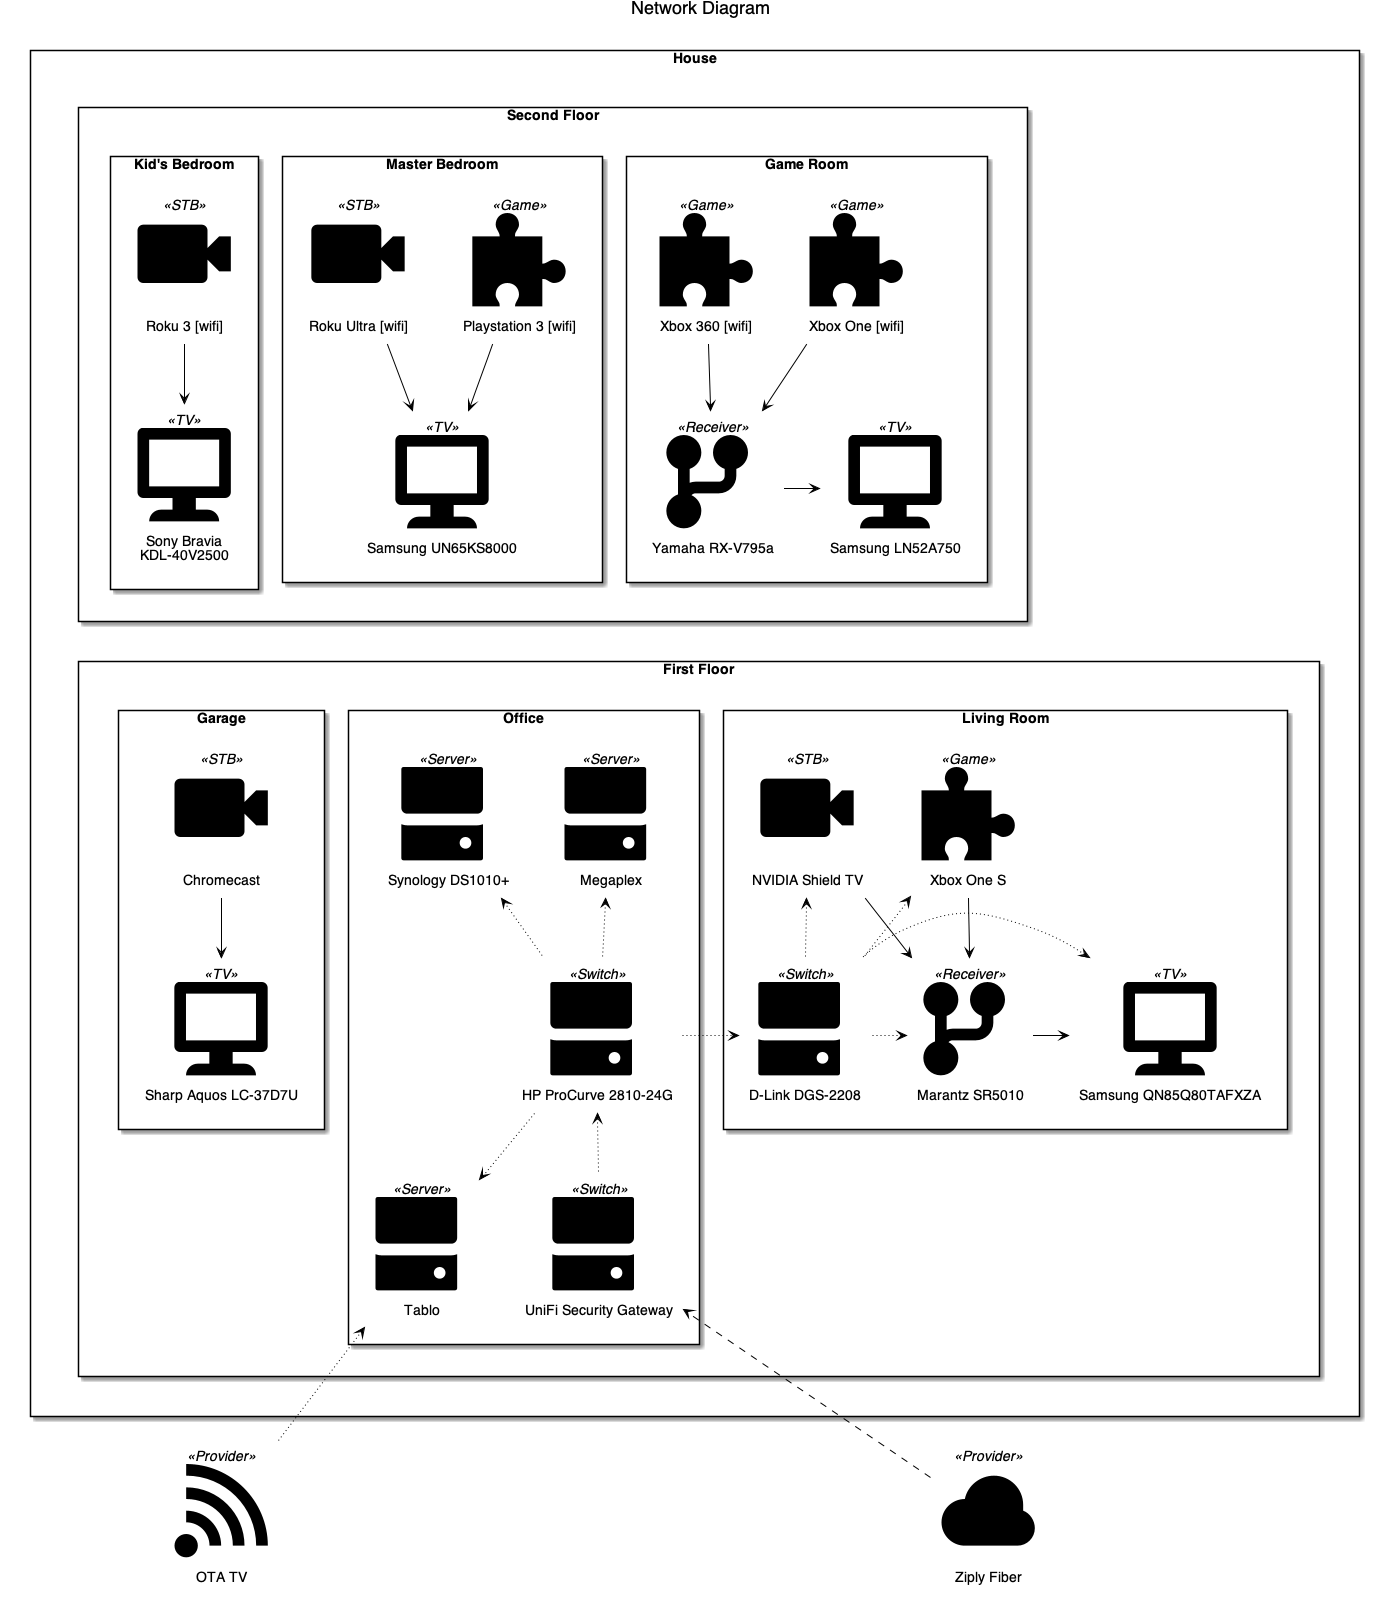
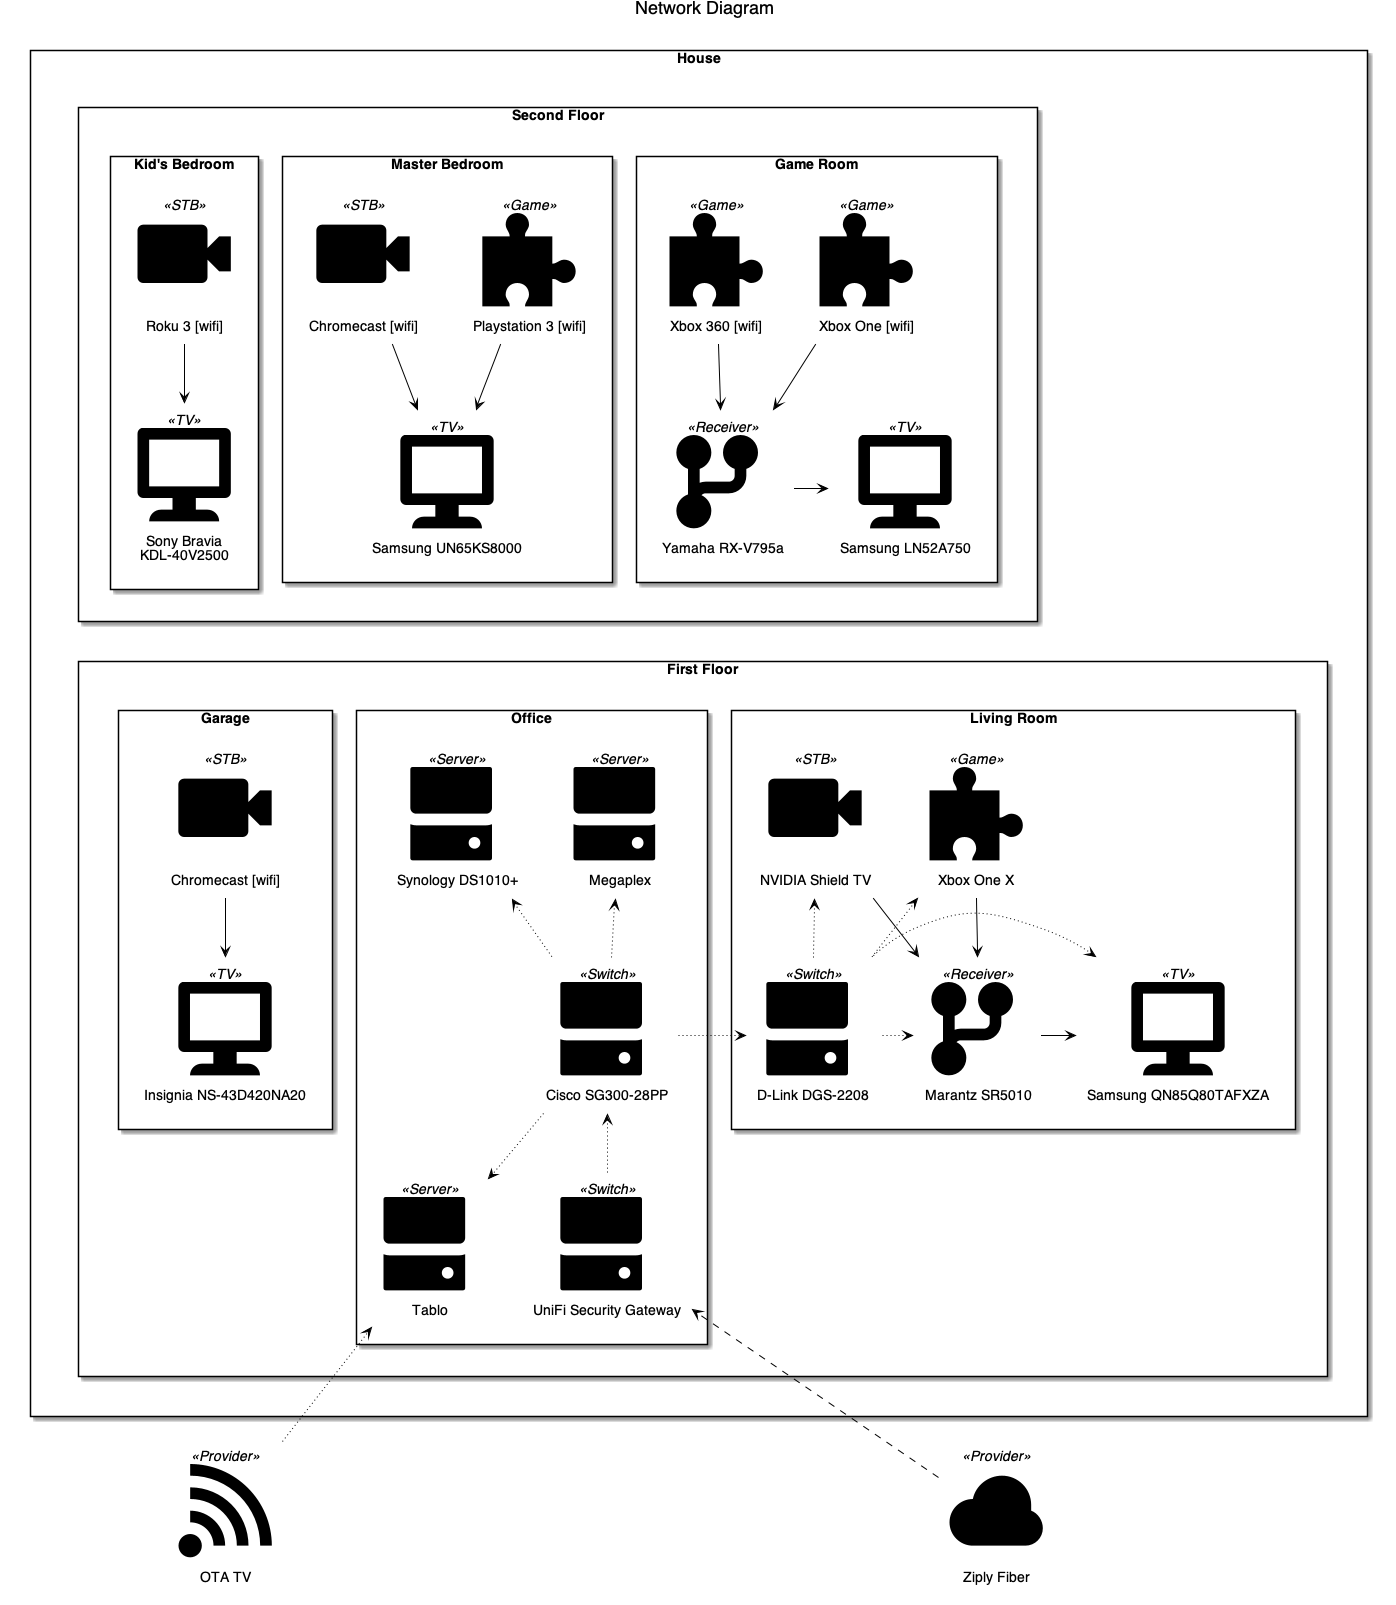
Hardware update.

diff --git a/docs/hardware/frontend/xbox.rst b/docs/hardware/frontend/xbox.rst
@@ -2,10 +2,13 @@
 Xbox
 ====
 
+Xbox One X
+==========
+
+In February 2023 I upgraded to the Xbox One X because several games I was interested in were only coming out for the latest generation consoles. This became the primary Xbox in the living room.
+
 Xbox One
 ========
-
-I have an Xbox One and an Xbox One S.
 
 I was late to the Xbox One game, waiting until a year or so after it was released before jumping in.
 
@@ -18,7 +21,7 @@ When we upgraded to the :doc:`Samsung UN65KS8000 <../tv/samsungun65ks8000>` I go
 Xbox 360
 ========
 
-I have two `Xbox 360 units <https://www.amazon.com/dp/B00NNU07RU?tag=mhsvortex>`_ - one upstairs, one downstairs. I also have one of the HD-DVD players (yeah, I know) for the one upstairs.
+I have two `Xbox 360 units <https://www.amazon.com/dp/B00NNU07RU?tag=mhsvortex>`_. I also have one of the HD-DVD players (yeah, I know).
 
 .. image:: xbox360.jpg
    :target: https://www.amazon.com/dp/B00NNU07RU?tag=mhsvortex
@@ -34,7 +37,7 @@ You have to hook it up in a particular way if you want to get HD video out of it
 We got a second Xbox - the new one is downstairs and connects via HDMI to :doc:`the Samsung TV <../tv/samsungln52a750>`, the old one went upstairs.
 
 - It looks like all of the Xbox models since July 2007 have HDMI, but you need to have a separate cable to enable the sound output when using HDMI. Only the Elite Xbox comes with that. Separately it costs ~$45. `It appears that the Arcade machine has HDMI. <https://www.xbox.com/en-US/hardware/x/xbox360arcadesystem/>`_ Arcade is not backwards-compatible with Xbox legacy games, but that could be just because it doesn't have a hard drive.
-- I ended up getting an Xbox 360 Arcade from Dell, an Xbox HDMI cable/adapter and wireless network adapter from Amazon, and a 512MB memory card from Best Buy. I put the Xbox 360 Arcade with all that downstairs. I stuck the old hard drive on the Xbox 360 Arcade and that works well. Our gamer profiles are each on memory cards - Jenn on the 64MB card I already had and me on the 512MB card I bought. The original Xbox 360 was moved upstairs and is connected with component cables to :doc:`the Sharp TV <../tv/sharpaquoslc37d7u>`.
+- I ended up getting an Xbox 360 Arcade from Dell, an Xbox HDMI cable/adapter and wireless network adapter from Amazon, and a 512MB memory card from Best Buy. I put the Xbox 360 Arcade with all that downstairs. I stuck the old hard drive on the Xbox 360 Arcade and that works well. Our gamer profiles are each on memory cards - Jenn on the 64MB card I already had and me on the 512MB card I bought. The original Xbox 360 was moved upstairs to the game room.
 
 Audio
 -----

diff --git a/docs/hardware/deprecated/sharpaquoslc37d7u.rst b/docs/hardware/deprecated/sharpaquoslc37d7u.rst
@@ -2,11 +2,13 @@
 Sharp Aquos LC-37D7U
 ====================
 
-This is the first HD TV I bought. Its an LCD set with a native resolution of 1366x768. It displays at 720p, scaling things as needed. It's 37" and has a matte display. Controls are along the top right just behind the bezel.
+This is the first HD TV I bought. It was an LCD set with a native resolution of 1366x768. It displayed at 720p, scaling things as needed. It was 37" and has a matte display. Controls were along the top right just behind the bezel.
 
 .. image:: sharpaquoslc37d7u.jpg
 
-Overall it's a decent performer but colors aren't super bright, nor are the darks very dark. At the time we bought it, it was better than many of the sets on the market but technology has progressed since then. I like the matte finish because you don't get the glare, but it does put a very slight haze on the picture.
+This guy died in 2021. You could kind of hear it whining when it tried to turn on, but no picture would come up. I think it probably didn't like being stuck in the garage.
+
+Overall this was a decent performer but colors weren't super bright, nor were the darks very dark. At the time we bought it, it was better than many of the sets on the market but technology has progressed since then. I like the matte finish because you don't get the glare, but it does put a very slight haze on the picture.
 
 When I was using it with the :doc:`Dell Studio Hybrid <../deprecated/dellstudiohybrid>` I had to do some research on the details of the TV to see if there was something I could do to possibly get a custom resolution running. I never ended up needing to do that, but I kept the notes.
 

diff --git a/docs/hardware/deprecated/dellstudiohybrid.rst b/docs/hardware/deprecated/dellstudiohybrid.rst
@@ -9,7 +9,7 @@ Now that there's a :doc:`Plex <../../software/serve/plex>` app for :doc:`Xbox 36
 Display Resolution
 ==================
 
-I used to have a display resolution issue when the Dell Studio Hybrid was hooked up to the :doc:`Sharp Aquos TV <../tv/sharpaquoslc37d7u>`. It ran at 1280 x 768, which left a letterbox on each side since the Sharp Aquos TV we have runs at 1366 x 768 natively. This problem went away when I connected it via HDMI to the :doc:`Samsung LN52A750 TV <../tv/samsungln52a750>` we got - now it runs at full 1080p.
+I used to have a display resolution issue when the Dell Studio Hybrid was hooked up to the :doc:`Sharp Aquos TV <sharpaquoslc37d7u>`. It ran at 1280 x 768, which left a letterbox on each side since the Sharp Aquos TV we have runs at 1366 x 768 natively. This problem went away when I connected it via HDMI to the :doc:`Samsung LN52A750 TV <../tv/samsungln52a750>` we got - now it runs at full 1080p.
 
 * Most TVs don't accept more than 720p through VGA/DVI, which we found while figuring out how to hook up the :doc:`Xbox 360 <../frontend/xbox>` (though that may have changed with newer TVs).
 * Different resolutions become available when you hook the computer up to the TV using the HDMI connection. I tried this with the Sharp Aquos and found that 1080i became available (though it didn't display nicely - that could have been due to the TV not understanding the input right). That wasn't available through the DVI hookup.

diff --git a/docs/index.rst b/docs/index.rst
@@ -11,7 +11,7 @@ I've amassed quite a collection, and I want to be able to enjoy it without a lot
 - I have :doc:`a central server machine <hardware/server/megaplex>` that runs :doc:`Plex <software/serve/plex>` and serves content that is stored on :doc:`a network-attached-storage device <hardware/server/synologyds1010>`. That's how I get the media off disks and onto :doc:`front-end devices <hardware/frontend/index>`.
 - I have a :doc:`Tablo <hardware/server/tablo>` DVR for handling recording over-the-air TV programs and serving them.
 - I subscribe to :doc:`Netflix <services/netflix>`, :doc:`Amazon Prime <services/amazon>`, :doc:`Hulu Plus <services/hulu>`, and :doc:`YouTube Music <services/youtube>` for content.
-- At each TV in my house, I have an :doc:`Xbox <hardware/frontend/xbox>` or a :doc:`Roku <hardware/frontend/roku>` to access the content served by Plex and the various services.
+- At each TV in my house, I have an :doc:`Xbox <hardware/frontend/xbox>` or a :doc:`Chromecast <hardware/frontend/chromecast>` to access the content served by Plex and the various services.
 
 It looks like this:
 

diff --git a/docs/software/deprecated/dtdcalculator.rst b/docs/software/deprecated/dtdcalculator.rst
@@ -13,7 +13,7 @@ My usage sounds like:
 * Install DTD Calculator.
 * Get the EDID info from MonInfo and paste it into DTD Calculator. If it'll do the full res, great; if not, try one of the other modelines.
 
-There is a modeline database at MythTV that `has some Sharp modelines I could try in DTD Calculator <https://www.mythtv.org/wiki/index.php/Modeline_Database#Sharp>`_. There's 1360 x 768, not 1366 x 768, but that might be the way to go. This one is for the LC-40C32U. I have :doc:`LC-37D7U <../../hardware/tv/sharpaquoslc37d7u>`, but it might work.
+There is a modeline database at MythTV that `has some Sharp modelines I could try in DTD Calculator <https://www.mythtv.org/wiki/index.php/Modeline_Database#Sharp>`_. There's 1360 x 768, not 1366 x 768, but that might be the way to go. This one is for the LC-40C32U. I have :doc:`LC-37D7U <../../hardware/deprecated/sharpaquoslc37d7u>`, but it might work.
 
 .. sourcecode:: none
 

diff --git a/docs/hardware/tv/insignians43d420na20.rst b/docs/hardware/tv/insignians43d420na20.rst
@@ -1,0 +1,9 @@
+======================
+Insignia NS-43D420NA20
+======================
+
+When the :doc:`Sharp Aquos TV <../deprecated/sharpaquoslc37d7u>` died, I picked up this Insignia as a replacement TV for the garage.
+
+In this case, price was the primary driver rather than high performance or great picture or whatever. It was intended to be a "garage TV" so if the sawdust gets to it or it doesn't like the temperature changes, it's not going to matter much when it dies.
+
+It's not even worth including a picture of this thing. It's a generic flat-screen TV. You get the idea.

diff --git a/docs/hardware/tv/index.rst b/docs/hardware/tv/index.rst
@@ -6,5 +6,5 @@ Televisions
     samsungqn85q80tafxza.rst
     samsungun65ks8000.rst
     samsungln52a750.rst
-    sharpaquoslc37d7u.rst
     sonykdl40v2500.rst
+    insignians43d420na20.rst

diff --git a/docs/hardware/deprecated/index.rst b/docs/hardware/deprecated/index.rst
@@ -14,3 +14,4 @@ As my system grows and changes, I switch up the hardware driving the system. Onc
     hpex475.rst
     powerline.rst
     netgearr8000.rst
+    sharpaquoslc37d7u.rst
